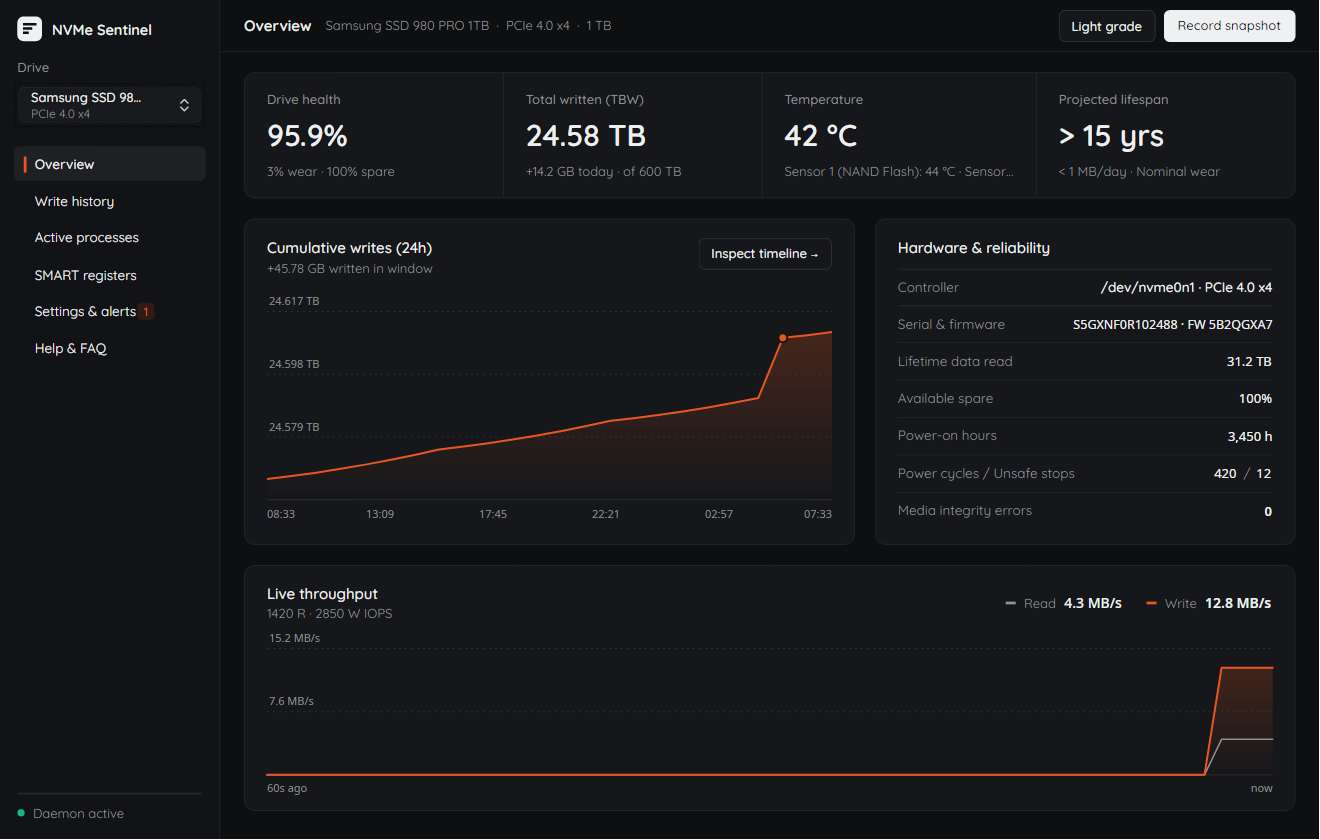
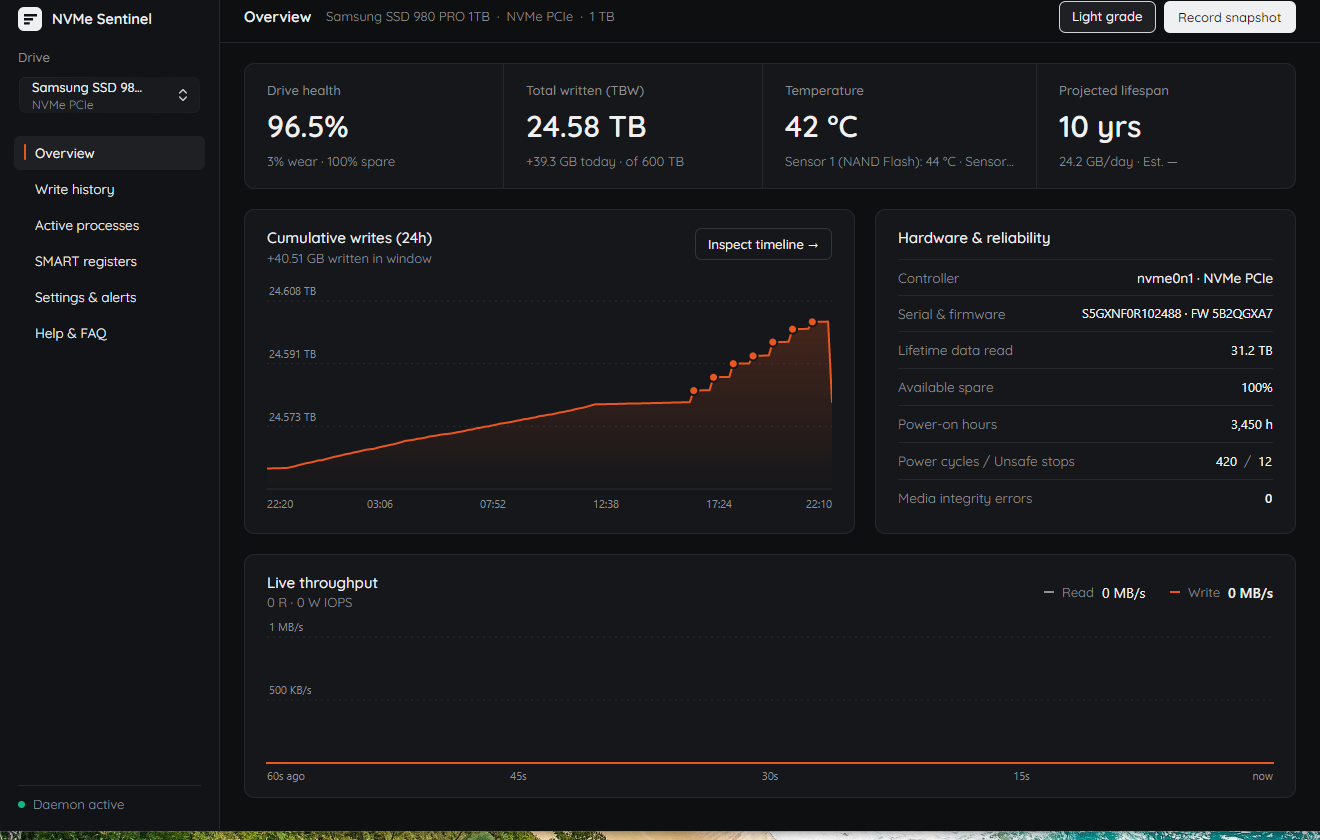
Enhance timeline markers, danger-threshold lifespan, and refresh screenshots

diff --git a/tests/NvmeSentinel.Tests/SentinelCoreTests.cs b/tests/NvmeSentinel.Tests/SentinelCoreTests.cs
@@ -525,4 +525,65 @@ public sealed class SentinelCoreTests
         Assert.Equal(1_200_000_000_000_000L, tlcBytes); // 600 TB/TB * 2TB = 1200 TB
         Assert.Contains("TLC", tlcSource);
     }
+
+    [Fact]
+    public void TimeSeriesStore_LoadDevicesAndBuildDashboardSnapshot()
+    {
+        var tempDir = Path.Combine(Path.GetTempPath(), $"nvme-sentinel-mock-{Guid.NewGuid():N}");
+        Directory.CreateDirectory(tempDir);
+        var dbPath = Path.Combine(tempDir, "history.db");
+
+        try
+        {
+            using var store = new TimeSeriesStore(dbPath);
+            var dev = new NvmeDeviceInfo
+            {
+                DeviceId = "nvme0n1",
+                Model = "Samsung SSD 980 PRO 1TB",
+                SerialNumber = "S5GXNF0R102488",
+                FirmwareRevision = "5B2QGXA7",
+                CapacityBytes = 1_000_204_886_016L
+            };
+            store.UpsertDevices([dev]);
+
+            var snap = new SmartSnapshot
+            {
+                DeviceId = dev.DeviceId,
+                TimestampUtc = DateTimeOffset.UtcNow,
+                TotalBytesWritten = 24_580_000_000_000L,
+                TotalBytesRead = 31_200_000_000_000L,
+                PercentUsed = 3,
+                AvailableSpare = 100,
+                SpareThreshold = 10,
+                CompositeTempCelsius = 42.0,
+                PowerOnHours = 3450
+            };
+            store.FlushBucketsAndState(new List<BufferedBucket>(), new Dictionary<string, SmartSnapshot> { [dev.DeviceId] = snap }, new List<AlertEvent>());
+
+            var devices = store.LoadDevices();
+            Assert.NotEmpty(devices);
+            Assert.Equal("nvme0n1", devices[0].DeviceId);
+
+            var smart = store.LoadLatestSmartSnapshots();
+            Assert.True(smart.ContainsKey(dev.DeviceId));
+
+            var settings = new DaemonSettings();
+            var forecast = LifespanAnalyzer.Compute(dev, smart[dev.DeviceId], settings, store);
+            Assert.NotNull(forecast);
+
+            var dash = new DashboardSnapshot
+            {
+                Devices = devices,
+                LatestSmart = smart,
+                Forecasts = new Dictionary<string, LifespanForecast> { [dev.DeviceId] = forecast },
+                Settings = settings
+            };
+            var json = System.Text.Json.JsonSerializer.Serialize(dash);
+            Assert.NotEmpty(json);
+        }
+        finally
+        {
+            try { Directory.Delete(tempDir, recursive: true); } catch { }
+        }
+    }
 }

diff --git a/src/NvmeSentinel.App/Controls/LiveThroughputChartControl.cs b/src/NvmeSentinel.App/Controls/LiveThroughputChartControl.cs
@@ -118,11 +118,20 @@ public sealed class LiveThroughputChartControl : Control
         // Write trace: the single precision accent (#E8571F) with soft fade
         DrawSeries(context, plot, writes, peak, Color.Parse("#E8571F"), fillArea: true, strokeWidth: 2.0);
 
-        // Axis endpoints
-        var leftAxisFt = new FormattedText("60s ago", CultureInfo.InvariantCulture, FlowDirection.LeftToRight, new Typeface("Monospace"), 11.0, labelBrush);
-        var rightAxisFt = new FormattedText("now", CultureInfo.InvariantCulture, FlowDirection.LeftToRight, new Typeface("Monospace"), 11.0, labelBrush);
-        context.DrawText(leftAxisFt, new Point(plot.Left, plot.Bottom + 5));
-        context.DrawText(rightAxisFt, new Point(plot.Right - rightAxisFt.Width, plot.Bottom + 5));
+        // Multi-point time axis markers across the 60-second live buffer
+        string[] timeLabels = ["60s ago", "45s", "30s", "15s", "now"];
+        for (int i = 0; i < timeLabels.Length; i++)
+        {
+            double frac = (double)i / (timeLabels.Length - 1);
+            double x = plot.Left + plot.Width * frac;
+            var ft = new FormattedText(timeLabels[i], CultureInfo.InvariantCulture, FlowDirection.LeftToRight, new Typeface("Monospace"), 11.0, labelBrush);
+            double drawX = i == 0
+                ? plot.Left
+                : i == timeLabels.Length - 1
+                    ? plot.Right - ft.Width
+                    : Math.Clamp(x - ft.Width / 2.0, plot.Left, plot.Right - ft.Width);
+            context.DrawText(ft, new Point(drawX, plot.Bottom + 5));
+        }
     }
 
     private static void DrawSeries(DrawingContext ctx, Rect plot, IReadOnlyList<double> values, double maxVal, Color color, bool fillArea, double strokeWidth)

diff --git a/src/NvmeSentinel.Core/Services/LifespanAnalyzer.cs b/src/NvmeSentinel.Core/Services/LifespanAnalyzer.cs
@@ -47,11 +47,17 @@ public static class LifespanAnalyzer
         const double OneGigabyte = 1_000_000_000.0;
         const double MaxPracticalHorizonDays = 3652.5; // Cap practical silicon exhaustion projection at 10.0 years
 
+        // Safety threshold: NAND flash enters a high-risk degradation zone (cell leakage, ECC recovery fatigue,
+        // spare block exhaustion) well before reaching absolute 0% endurance. We project lifespan to the
+        // critical safety threshold (10% endurance remaining / 90% rated TBW consumed) rather than catastrophic failure.
+        long dangerThresholdBytes = (long)(ratedBytes * 0.90);
+        long remainingToDanger = Math.Max(0, dangerThresholdBytes - currentTbw);
+
         // If daily burn rate is negligible (< 1 GB/day), endurance wear is not the limiting failure factor;
         // physical component aging, capacitor degradation, and dielectric charge leakage (JEDEC JESD218) dominate.
-        if (effectiveRate >= OneGigabyte && remaining > 0)
+        if (effectiveRate >= OneGigabyte && remainingToDanger > 0)
         {
-            double days = remaining / effectiveRate;
+            double days = remainingToDanger / effectiveRate;
             if (days <= MaxPracticalHorizonDays)
             {
                 estDays = Math.Round(days, 1);
@@ -63,7 +69,7 @@ public static class LifespanAnalyzer
                 estDays = MaxPracticalHorizonDays;
             }
         }
-        else if (remaining == 0 && ratedBytes > 0)
+        else if (remainingToDanger == 0 && ratedBytes > 0)
         {
             estDays = 0;
             exhaustionDate = now;

diff --git a/src/NvmeSentinel.Core/Storage/TimeSeriesStore.cs b/src/NvmeSentinel.Core/Storage/TimeSeriesStore.cs
@@ -229,6 +229,40 @@ public sealed class TimeSeriesStore : IDisposable
         }
     }
 
+    public List<NvmeDeviceInfo> LoadDevices()
+    {
+        lock (_sync)
+        {
+            using var conn = OpenConnection();
+            using var cmd = conn.CreateCommand();
+            cmd.CommandText = "SELECT device_id, model, serial, firmware, capacity_bytes FROM devices;";
+            using var reader = cmd.ExecuteReader();
+            var list = new List<NvmeDeviceInfo>();
+            while (reader.Read())
+            {
+                var id = reader.GetString(0);
+                var model = reader.GetString(1);
+                var serial = reader.GetString(2);
+                var fw = reader.GetString(3);
+                var cap = reader.GetInt64(4);
+                list.Add(new NvmeDeviceInfo
+                {
+                    DeviceId = id,
+                    ControllerName = id,
+                    BlockDeviceName = id,
+                    DevicePath = id,
+                    Model = model,
+                    SerialNumber = serial,
+                    FirmwareRevision = fw,
+                    CapacityBytes = cap,
+                    PowerState = "Active",
+                    BackendSource = "Database Store"
+                });
+            }
+            return list;
+        }
+    }
+
     public void UpsertDevices(IEnumerable<NvmeDeviceInfo> devices)
     {
         lock (_sync)

diff --git a/src/NvmeSentinel.Daemon/SentinelMonitorEngine.cs b/src/NvmeSentinel.Daemon/SentinelMonitorEngine.cs
@@ -60,7 +60,18 @@ public sealed class SentinelMonitorEngine : IAsyncDisposable
 
         var persistedSmart = _store.LoadLatestSmartSnapshots();
         _devices = await _nvmeProvider.DiscoverDevicesAsync(ct);
-        _store.UpsertDevices(_devices);
+        if (_devices.Count == 0)
+        {
+            var stored = _store.LoadDevices();
+            if (stored.Count > 0)
+            {
+                _devices = stored;
+            }
+        }
+        else
+        {
+            _store.UpsertDevices(_devices);
+        }
 
         // Prime process tracker baseline
         _processTracker.Poll(1.0, 0);
@@ -68,10 +79,15 @@ public sealed class SentinelMonitorEngine : IAsyncDisposable
         foreach (var dev in _devices)
         {
             var snap = await _nvmeProvider.ReadSmartAsync(dev, forceRefresh: true, ct);
+            if (snap is null && persistedSmart.TryGetValue(dev.DeviceId, out var cachedSnap))
+            {
+                snap = cachedSnap;
+            }
+
             if (snap is not null)
             {
                 snap.TriggerReason = "startup";
-                if (persistedSmart.TryGetValue(dev.DeviceId, out var prev))
+                if (persistedSmart.TryGetValue(dev.DeviceId, out var prev) && !ReferenceEquals(prev, snap))
                 {
                     EvaluateSmartTransitions(dev, prev, snap);
                 }

diff --git a/src/NvmeSentinel.App/Controls/TimeMachineChartControl.cs b/src/NvmeSentinel.App/Controls/TimeMachineChartControl.cs
@@ -428,7 +428,7 @@ public sealed class TimeMachineChartControl : Control
                 ? "MMM dd HH:mm"
                 : "yyyy-MM-dd";
 
-        const int ticks = 5;
+        int ticks = Math.Clamp((int)(plot.Width / 130.0), 5, 8);
         for (int i = 0; i <= ticks; i++)
         {
             double frac = (double)i / ticks;

diff --git a/README.md b/README.md
@@ -15,21 +15,27 @@ Runs on **Linux**, **Windows**, and **macOS**.
 ## Screenshots
 
 <p align="center">
+  <em>Dashboard — Dark Theme</em><br/>
   <img src="assets/screenshots/01-overview.png" alt="NVMe Sentinel Dashboard (Dark Theme)" width="850" />
 </p>
 
+<p align="center">
+  <em>Dashboard — Light Theme</em><br/>
+  <img src="assets/screenshots/02-overview-light.png" alt="NVMe Sentinel Dashboard (Light Theme)" width="850" />
+</p>
+
 <details>
-  <summary><b>Additional views (SMART Diagnostics & Light Theme)</b></summary>
+  <summary><b>Hardware Diagnostics & SMART Register Views</b></summary>
   <br/>
 
   <p align="center">
-    <em>Controller SMART Registers & Hardware Diagnostics</em><br/>
-    <img src="assets/screenshots/04-smart-diagnostics.png" alt="SMART Registers & Diagnostics" width="850" />
+    <em>Controller SMART Registers & Hardware Diagnostics (Dark Theme)</em><br/>
+    <img src="assets/screenshots/03-smart-diagnostics.png" alt="SMART Registers (Dark Theme)" width="850" />
   </p>
 
   <p align="center">
-    <em>Dashboard (Light Theme)</em><br/>
-    <img src="assets/screenshots/06-overview-light.png" alt="Overview Light Theme" width="850" />
+    <em>Controller SMART Registers & Hardware Diagnostics (Light Theme)</em><br/>
+    <img src="assets/screenshots/04-smart-diagnostics-light.png" alt="SMART Registers (Light Theme)" width="850" />
   </p>
 </details>
 
@@ -91,28 +97,18 @@ Pre-built binaries are available on the [Releases](https://github.com/khoipm06/n
   1. Download the disk image for your Mac architecture:
      - Apple Silicon (M1–M4): `NVMe-Sentinel-v1.3.2-osx-arm64.dmg`
      - Intel: `NVMe-Sentinel-v1.3.2-osx-x64.dmg`
-  2. Open the `.dmg` and drag **NVMe Sentinel.app** into `/Applications`.
-  3. **Gatekeeper clearance**: Because NVMe Sentinel is an open-source binary distributed outside the Mac App Store, macOS marks it with a quarantine attribute. Clear it by running:
-     ```bash
-     xattr -dr com.apple.quarantine "/Applications/NVMe Sentinel.app"
-     ```
-     *(Alternatively: In Finder, right-click `NVMe Sentinel.app`, choose **Open**, and confirm the prompt.)*
-  4. **Background daemon setup (optional)**:
-     To keep recording telemetry even after closing the desktop window, enable the background launchd service:
-     ```bash
-     mkdir -p ~/Library/LaunchAgents
-     cp "/Applications/NVMe Sentinel.app/Contents/Resources/com.khoipm.nvme-sentinel.plist" ~/Library/LaunchAgents/
-     launchctl bootstrap gui/$(id -u) ~/Library/LaunchAgents/com.khoipm.nvme-sentinel.plist
-     ```
+  2. Double-click the `.dmg` file and drag **NVMe Sentinel.app** into your **Applications** folder.
+  3. **First launch**: Because NVMe Sentinel is open-source software distributed outside the Mac App Store:
+     - Open **Finder** and navigate to **Applications**.
+     - **Control-click** (or right-click) **NVMe Sentinel** and choose **Open**.
+     - In the confirmation prompt, click **Open**. (You only need to do this once).
+     - *If macOS shows a warning instead:* Open **System Settings** > **Privacy & Security**, scroll down to the **Security** section, and click **Open Anyway**.
+  4. **Start at login (optional)**:
+     - Open **System Settings** > **General** > **Login Items**.
+     - Under **Open at Login**, click the **+** button and select **NVMe Sentinel** from your Applications folder.
 
-- **Standalone Tarball (`.tar.gz`)**:
-  Download the standalone `.tar.gz`, extract, and run the automated installer:
-  ```bash
-  tar -xzf nvme-sentinel-v1.3.2-osx-arm64-standalone.tar.gz
-  cd nvme-sentinel-v1.3.2-osx-arm64-standalone
-  ./install.sh
-  ```
-  This installs binaries to `~/Applications/NVMe Sentinel`, registers the background `LaunchAgent`, and symlinks CLI tools to your PATH.
+- **Standalone Archive (`.tar.gz`)**:
+  If you prefer a terminal workflow or want to deploy headlessly, download the `.tar.gz` archive, extract it, and run `./install.sh`. This sets up the binary, registers a user `LaunchAgent` service, and links CLI commands to your path. To remove it later, run `uninstall.sh`.
 
 ---
 
